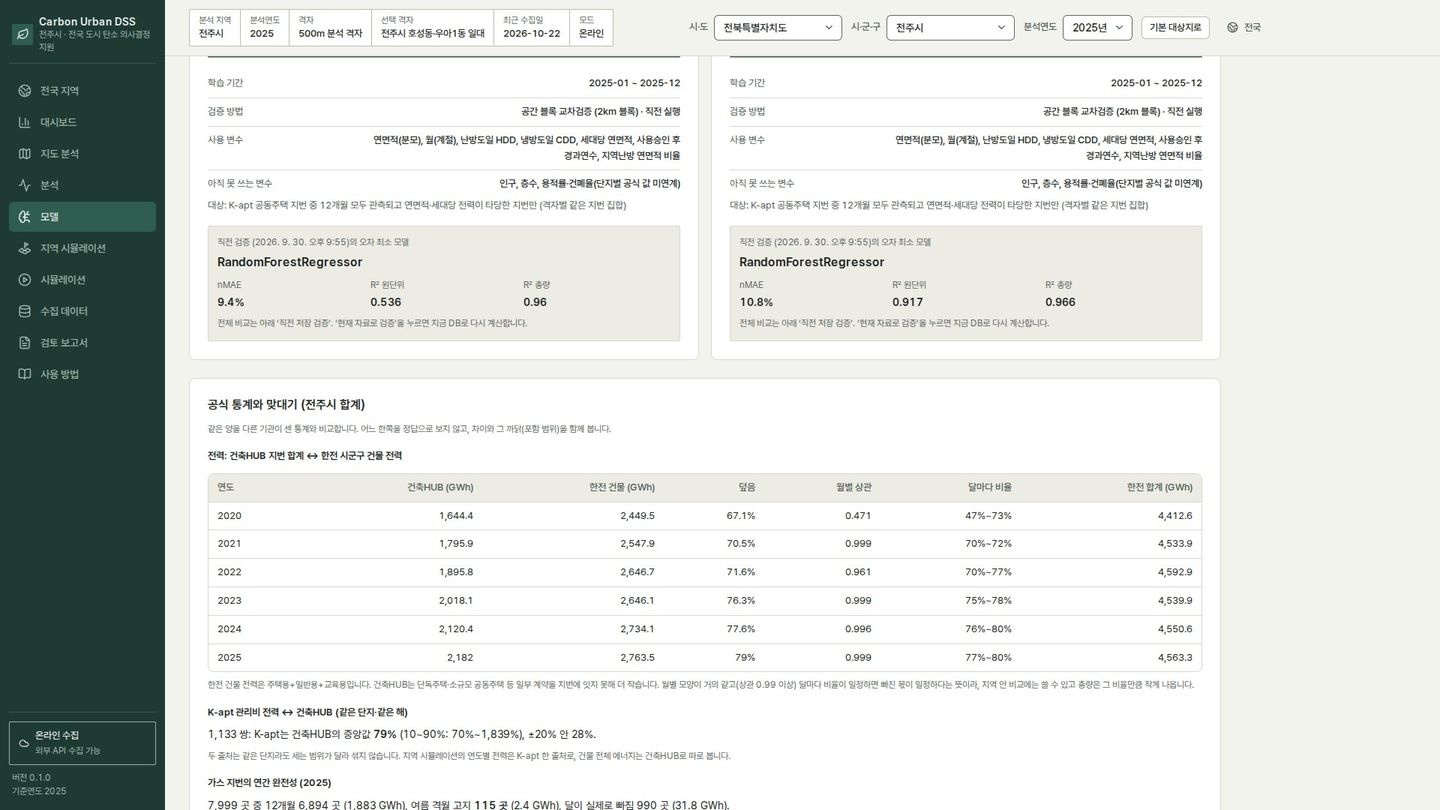
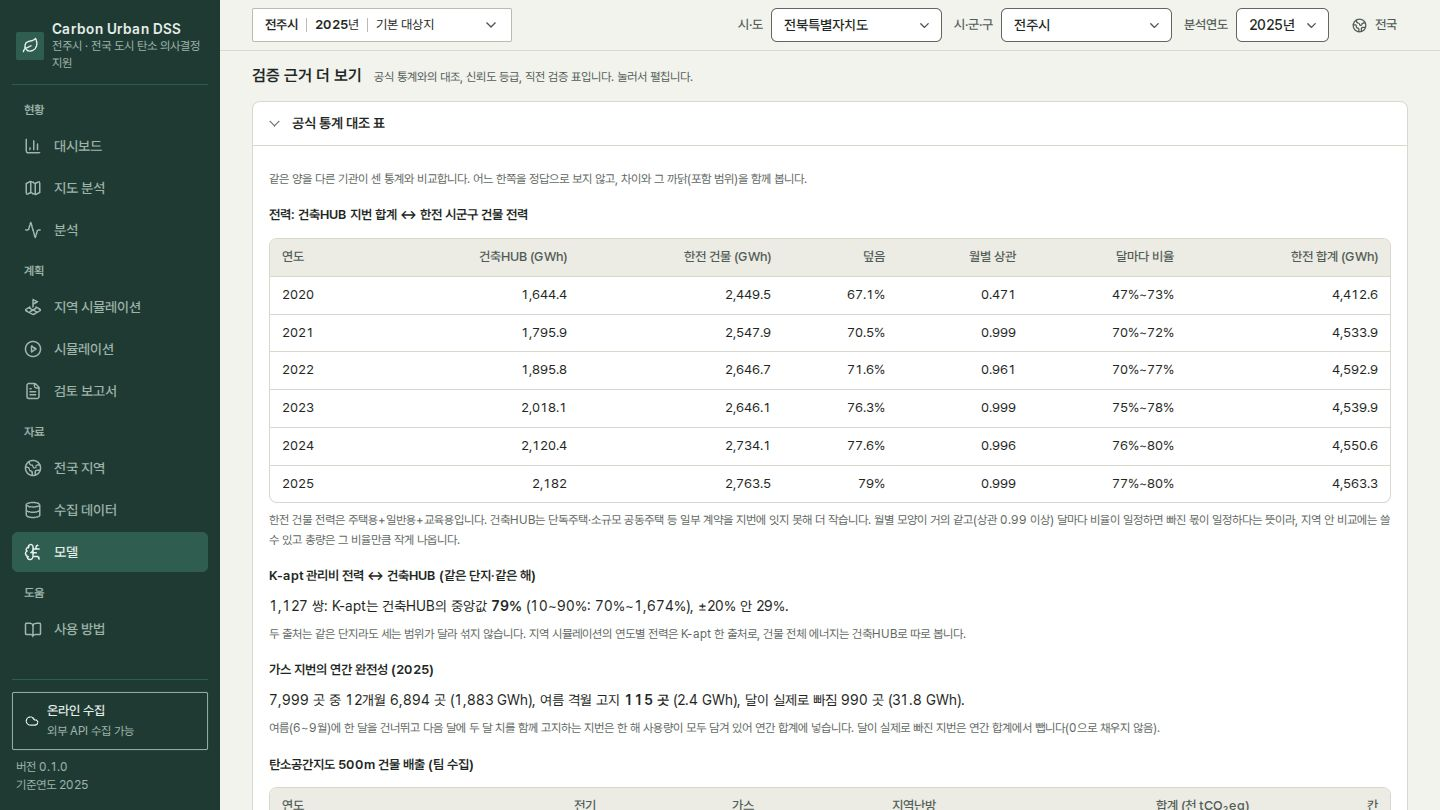
설명서: 개편된 화면 그림 16장 갱신(대시보드·분석·모델·지역 시뮬레이션·수집 데이터)과 보정식 그림 1장 추가, 보정식·지표 범위 설명
Claude-Session: https://claude.ai/code/session_01FHHEuZJMkY1PRrj63r7SZr

diff --git a/docs/USER_MANUAL.md b/docs/USER_MANUAL.md
@@ -294,7 +294,6 @@ scripts\dss.cmd ImportBundle -BundlePath D:\share\carbon-dss-bundle-20261008-xxx
   - 건물 전체 에너지(건축HUB)
   - 인구·주택(SGIS)
   - 기상
-- 아래 그림은 2026-11-12 화면 개편 전 모습입니다(구성 요소는 같고, 지금은 접힌 줄로 나옵니다).
 
 ![대시보드 아래쪽](images/manual2/m2-13-dashboard-lower.jpg)
 
@@ -318,11 +317,15 @@ scripts\dss.cmd ImportBundle -BundlePath D:\share\carbon-dss-bundle-20261008-xxx
 
 - 관측 수·격자·공간 블록·관측 월이 기준(120건·10격자·3블록·10개월)보다 적으면 성능을 만들지 않고 "학습 자료 부족"으로 표시합니다.
 - **현재 자료로 검증**을 누르면 지금 DB로 다시 계산합니다.
-- 아래 **공식 통계와 맞대기**에서는 건축HUB 합계를 한전 시군구 건물 전력과 연도별로 비교합니다(덮음·월별 상관·달마다 비율). 어느 쪽도 정답으로 보지 않고 차이와 포함 범위를 함께 봅니다.
+- 화면 위쪽에는 모델별 검증 결과(nMAE, R²)만 보이고, 학습 조건과 변수는 카드 안 **학습 자료와 변수**를 누르면 열립니다.
+- **검증 근거 더 보기**의 **공식 통계 대조 표**에서는 건축HUB 합계를 한전 시군구 건물 전력과 연도별로 비교합니다(덮음·월별 상관·달마다 비율). 어느 쪽도 정답으로 보지 않고 차이와 포함 범위를 함께 봅니다.
+- **신뢰도 등급 표** 아래에는 **시·군·구 총량 보정식**이 있습니다: 보정 후 건물 전력 배출 = 계측 건물 전력 합 ÷ ① 덮음 × ② 부문 범위 × ③ 계수 비. 공식 온실가스 통계와의 평균 차이가 44.4% → 28.8% → 11.3% → 8.1%로 줄어드는 것을 막대로 보여 줍니다(2023년 19개 시·군·구, 보정값은 자기 지역을 빼고 구함). 전력 총량에만 쓰는 대조이며 화면의 지역 합계와 500m 칸 값은 보정 전 값입니다.
 
 ![모델](images/manual2/m2-15-model.jpg)
 
-![공식 통계와 맞대기](images/manual2/m2-16-model-official.jpg)
+![공식 통계 대조 표](images/manual2/m2-16-model-official.jpg)
+
+![신뢰도 등급 표와 시·군·구 총량 보정식](images/manual2/m2-42-model-correction.jpg)
 
 ### 4.6 지역 시뮬레이션
 
@@ -480,6 +483,7 @@ scripts\dss.cmd ImportBundle -BundlePath D:\share\carbon-dss-bundle-20261008-xxx
 
 - 시뮬레이션 결과의 **보고서 작성**을 누르면 그 계획안의 보고서가 바로 만들어집니다.
 - 보고서는 계획안 **하나**로 씁니다. 다른 안과 비교하지 않고, 같은 계획을 대책 없음(기준안)에서 시작해 ① 단열·창호 기준 강화(가스 23.6% 절감, 단지 78쌍 실측) ② 에너지 절약 운영(전력 4.8% 절감, 실측 문헌 중앙값) ③ 지붕 태양광(옥상의 60%, 1 kW당 10 m²) ④ 녹지·조경 흡수(녹지 1 m²당 연 1.0 kgCO2, 상쇄)를 차례로 더한 **탄소 감축 방안**을 씁니다. 히트펌프 전환은 초기 비용과 실측 근거 부족으로 기본 단계에서 뺐습니다(2026-11-11). 남는 배출은 운영 넷제로까지 필요한 외부 재생에너지(태양광 kW 상당)로, 에너지자립률은 ZEB 참고 구간으로 적습니다.
+- 5절 표 아래에는 **지표의 실측 범위**가 붙습니다: 단열·창호 20.5~25.8%, 에너지 절약 운영 1.95~17.0%와, 그 범위에서 그 단계 감축량이 움직이는 폭. 계산은 중앙값으로 하고 범위는 참고로만 적습니다(다른 단계는 그대로 둔 값이며 합계의 신뢰구간이 아님).
 - 계획안 없이 **현황 보고서**만 쓸 수도 있습니다.
 
 **보고서 구성** (8절)
